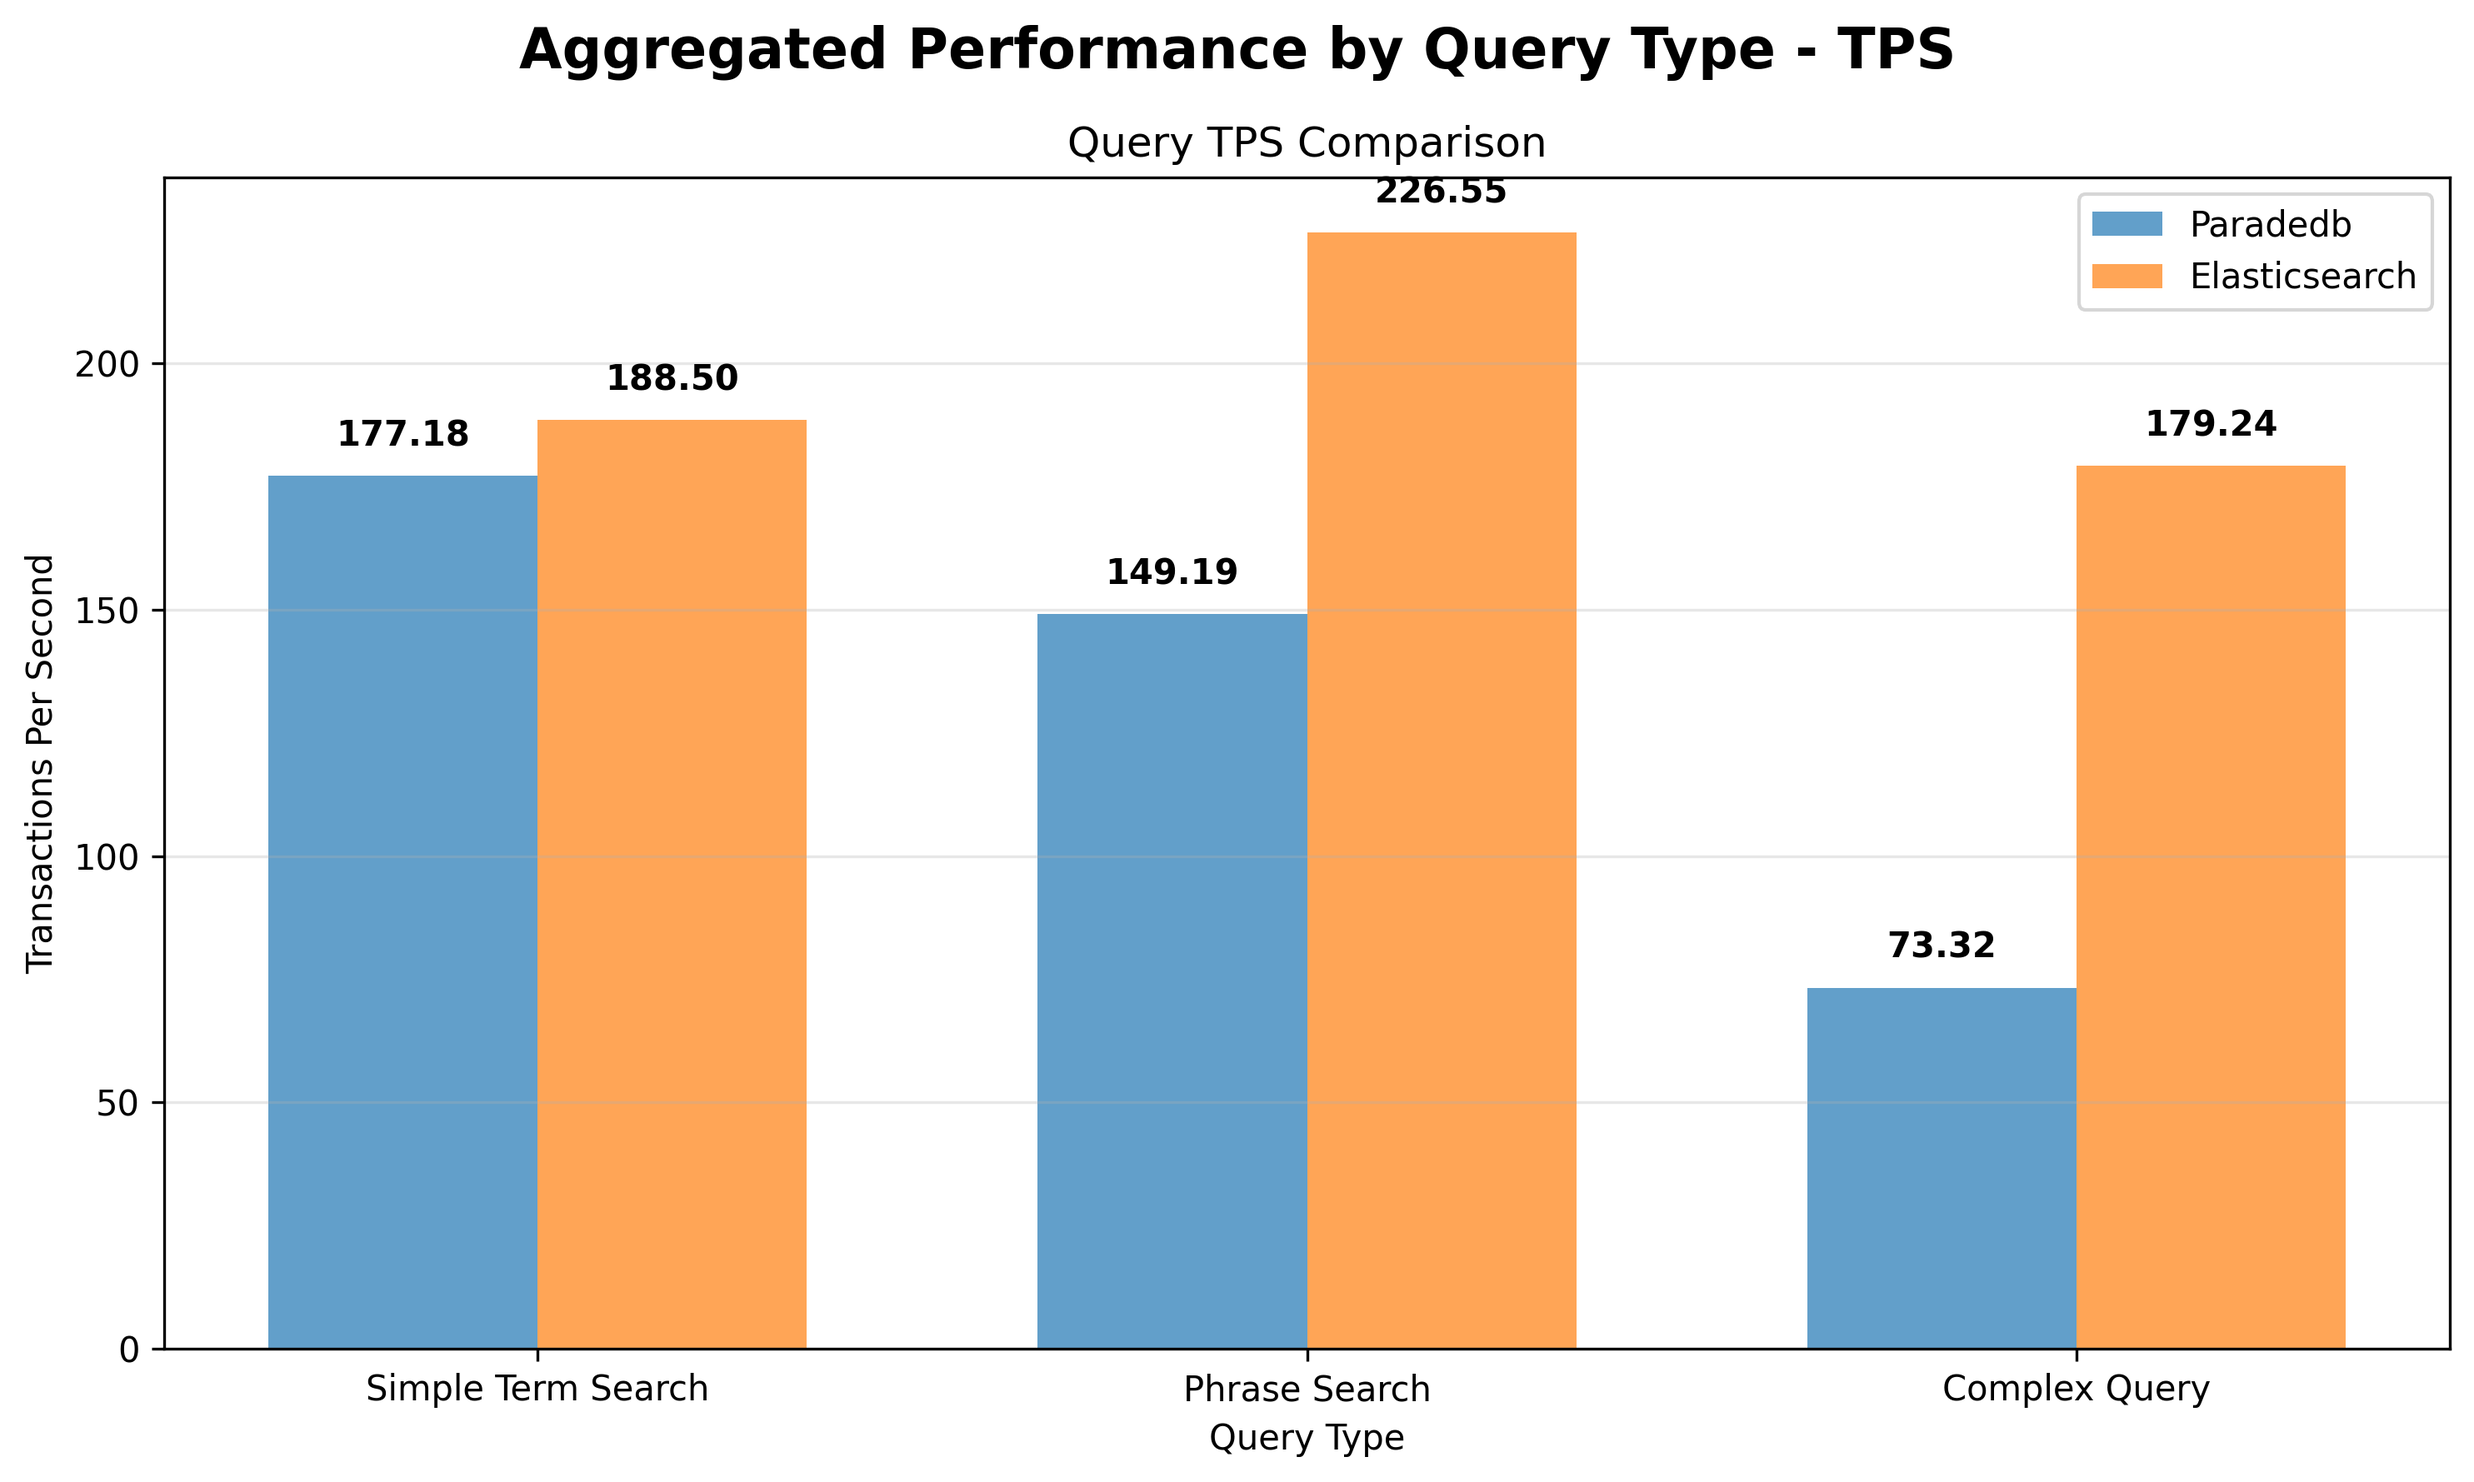
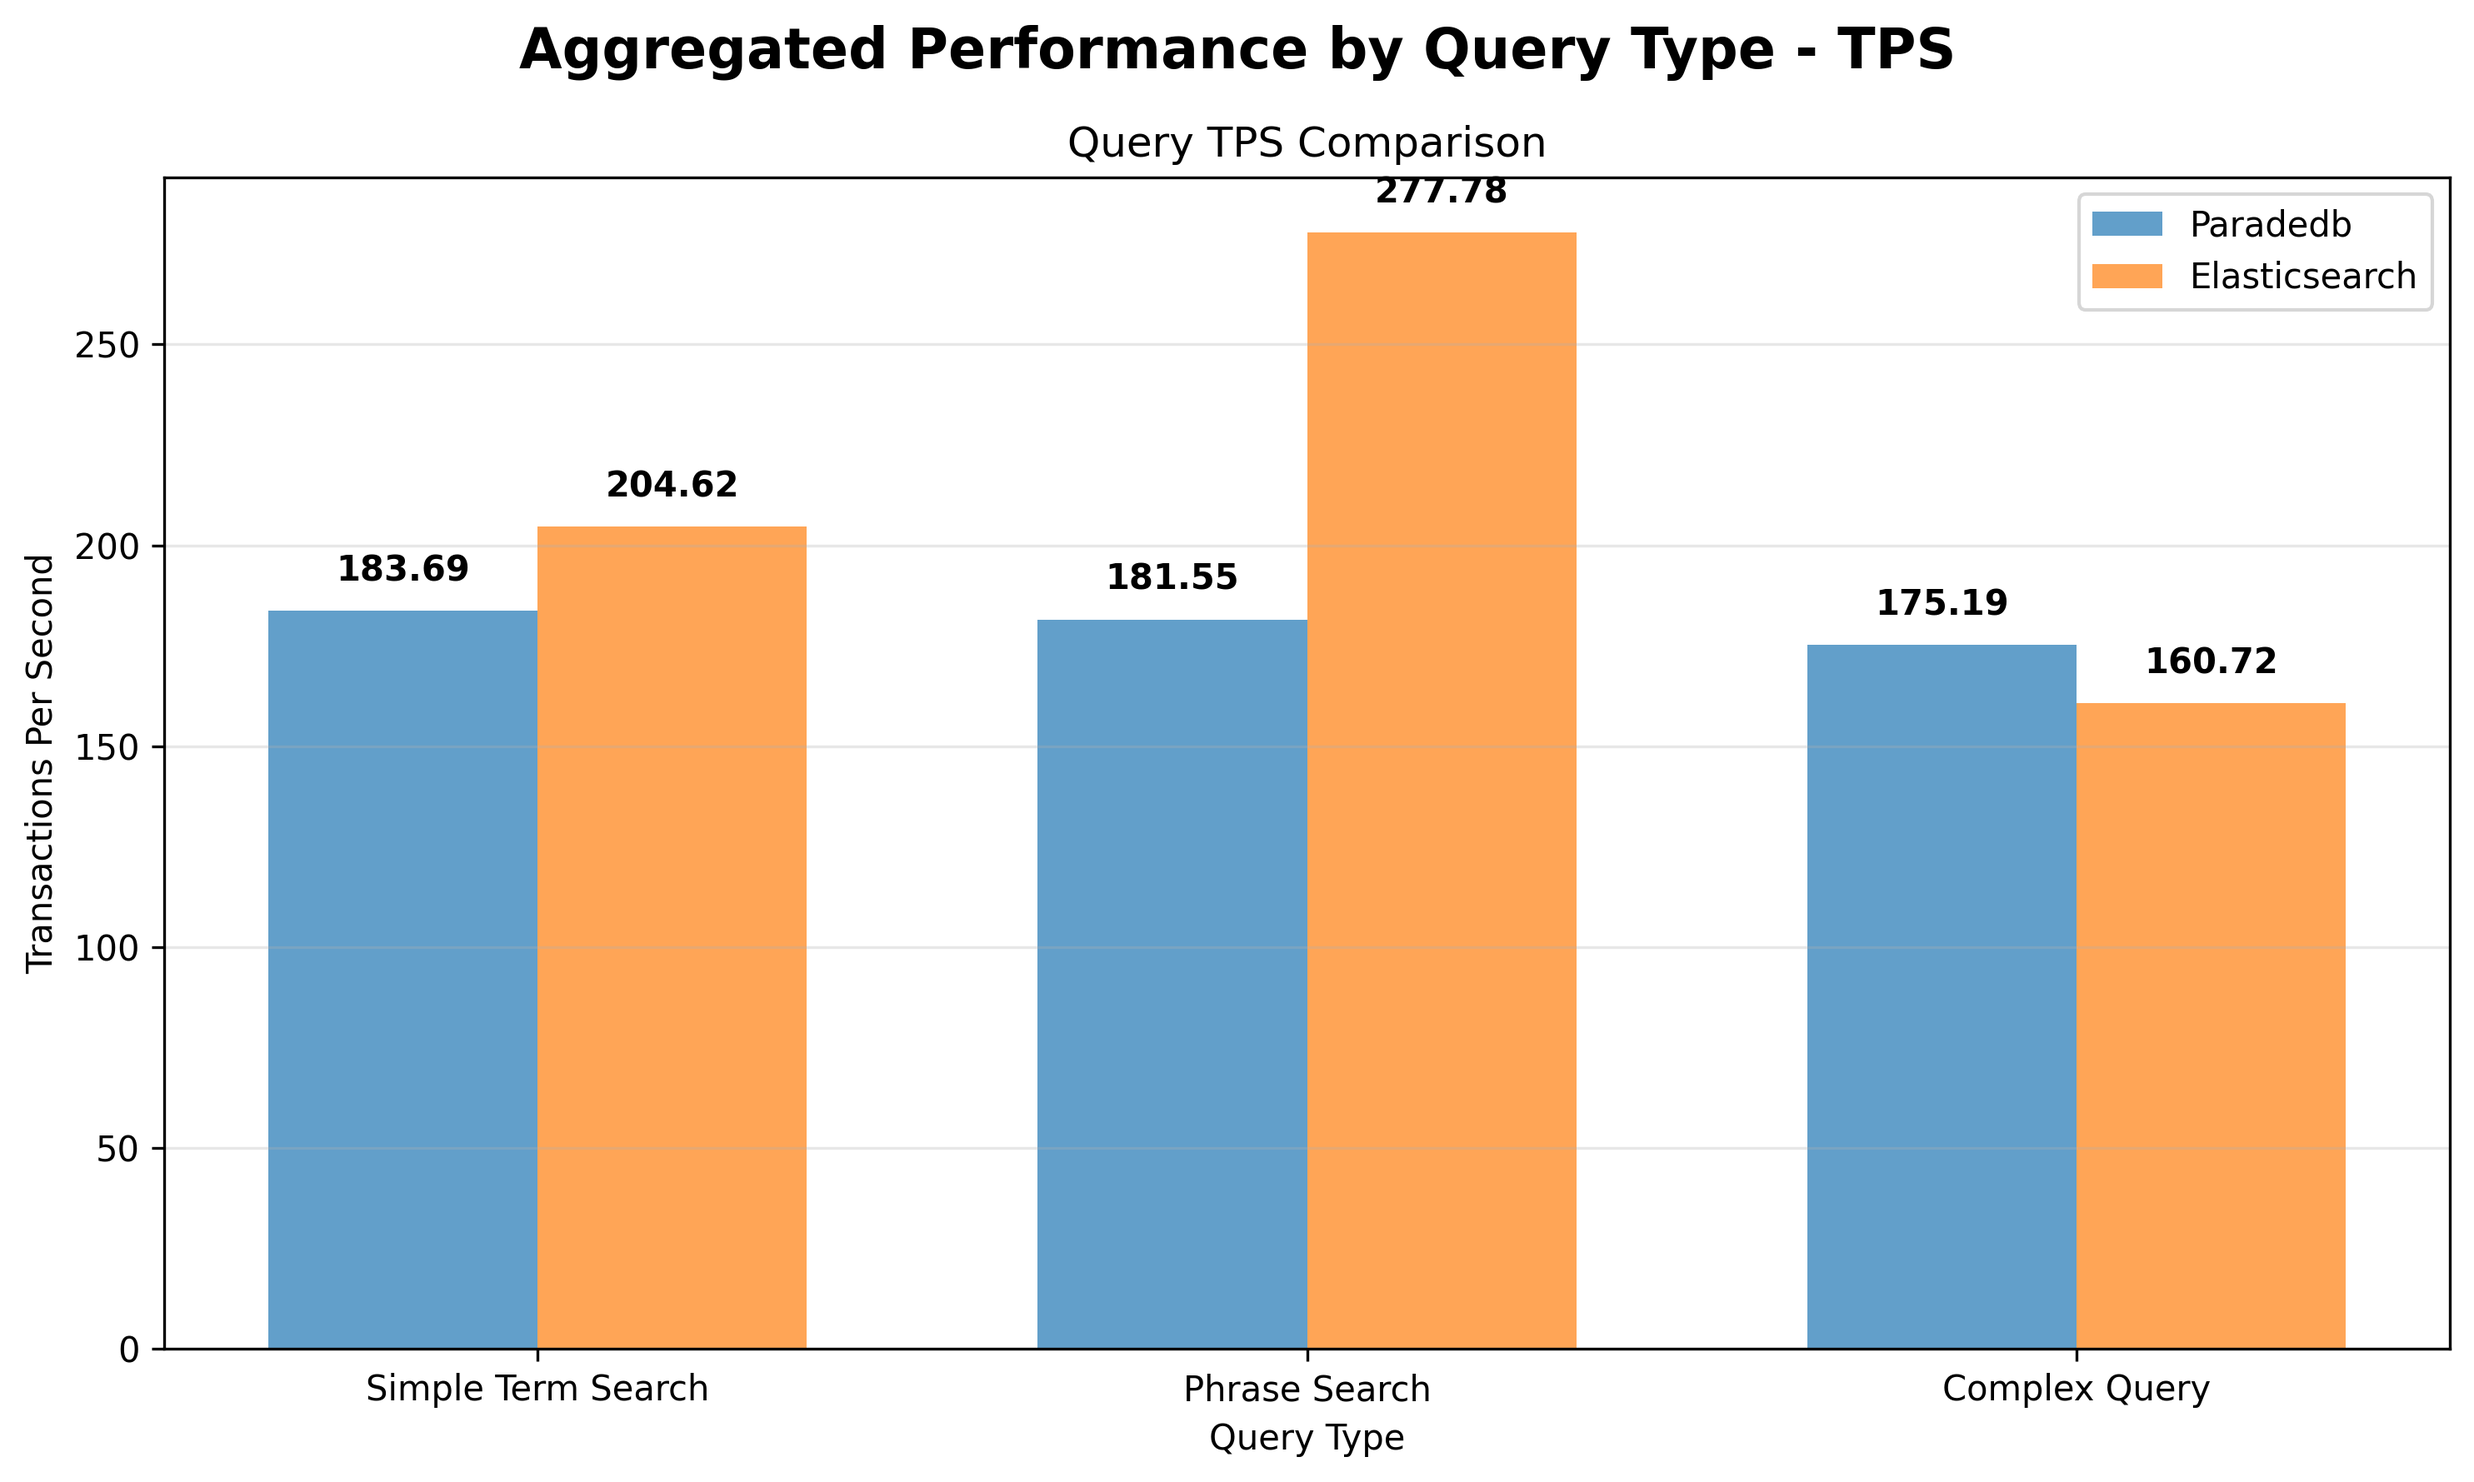
improvements

diff --git a/scripts/elasticsearch_benchmark.py b/scripts/elasticsearch_benchmark.py
@@ -176,6 +176,29 @@ def load_data(session, es_host, es_port, index_name, scale, quiet=False):
     refresh_url = f"http://{es_host}:{es_port}/{index_name}/_refresh"
     session.post(refresh_url, timeout=10)
     
+    # Force merge to optimize index (similar to VACUUM)
+    if not quiet:
+        print("Force merging index...")
+    forcemerge_url = f"http://{es_host}:{es_port}/{index_name}/_forcemerge?max_num_segments=1"
+    session.post(forcemerge_url, timeout=300) # Long timeout for merge
+
+    # Wait for all documents to be available
+    if not quiet:
+        print("Waiting for all documents to be indexed...")
+    
+    count_url = f"http://{es_host}:{es_port}/{index_name}/_count"
+    max_retries = 60
+    for i in range(max_retries):
+        try:
+            response = session.get(count_url, timeout=10)
+            if response.status_code == 200:
+                count = response.json().get('count', 0)
+                if count >= expected_size:
+                    break
+        except:
+            pass
+        time.sleep(1)
+    
     end_time = time.perf_counter()
     loading_time = end_time - start_time
     

diff --git a/scripts/benchmark_paradedb.py b/scripts/benchmark_paradedb.py
@@ -241,6 +241,14 @@ def create_index(host, port, user, password, db_name):
         """)
 
         conn.commit()
+        
+        # Optimize table statistics
+        print("Running VACUUM ANALYZE...")
+        old_isolation_level = conn.isolation_level
+        conn.set_isolation_level(0) # ISOLATION_LEVEL_AUTOCOMMIT
+        cursor.execute("VACUUM ANALYZE documents;")
+        conn.set_isolation_level(old_isolation_level)
+        
         end_time = time.perf_counter()
         index_time = end_time - start_time
         print("Search index created")
